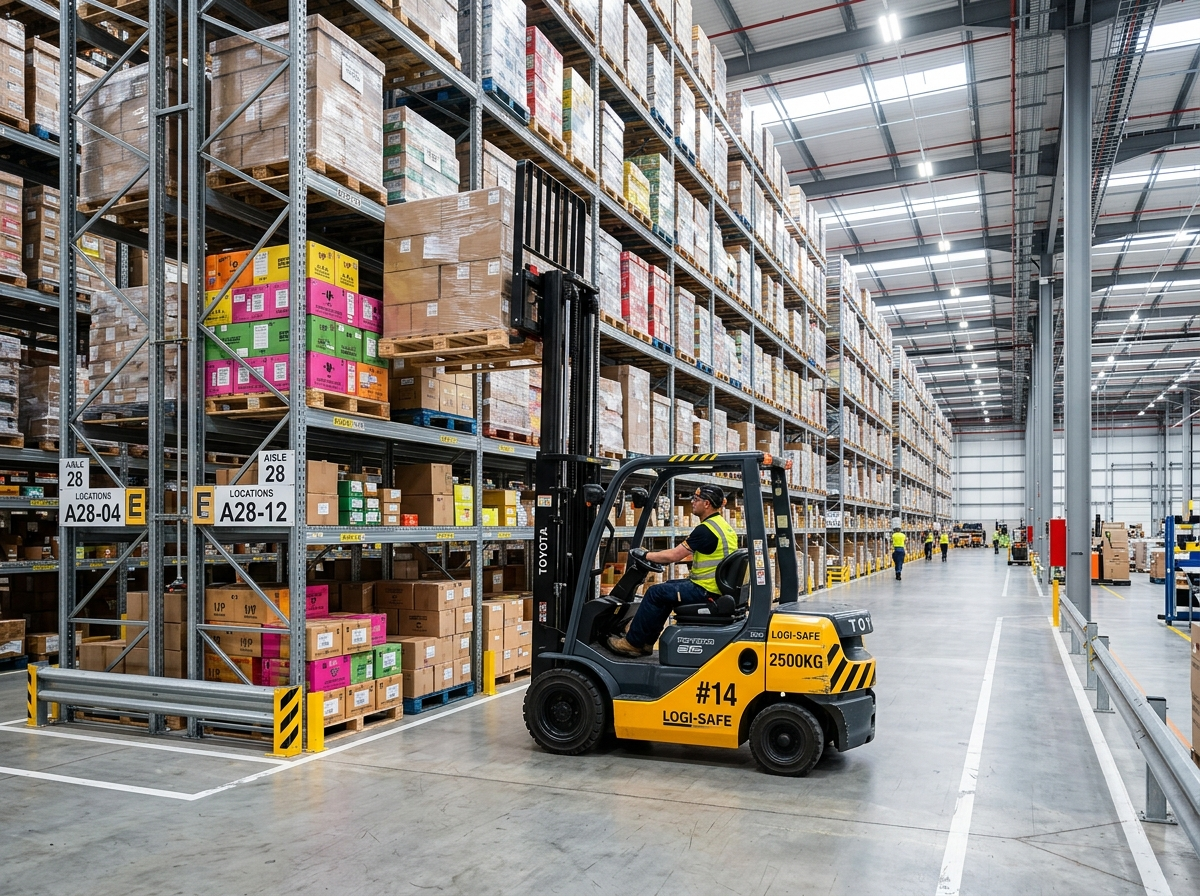
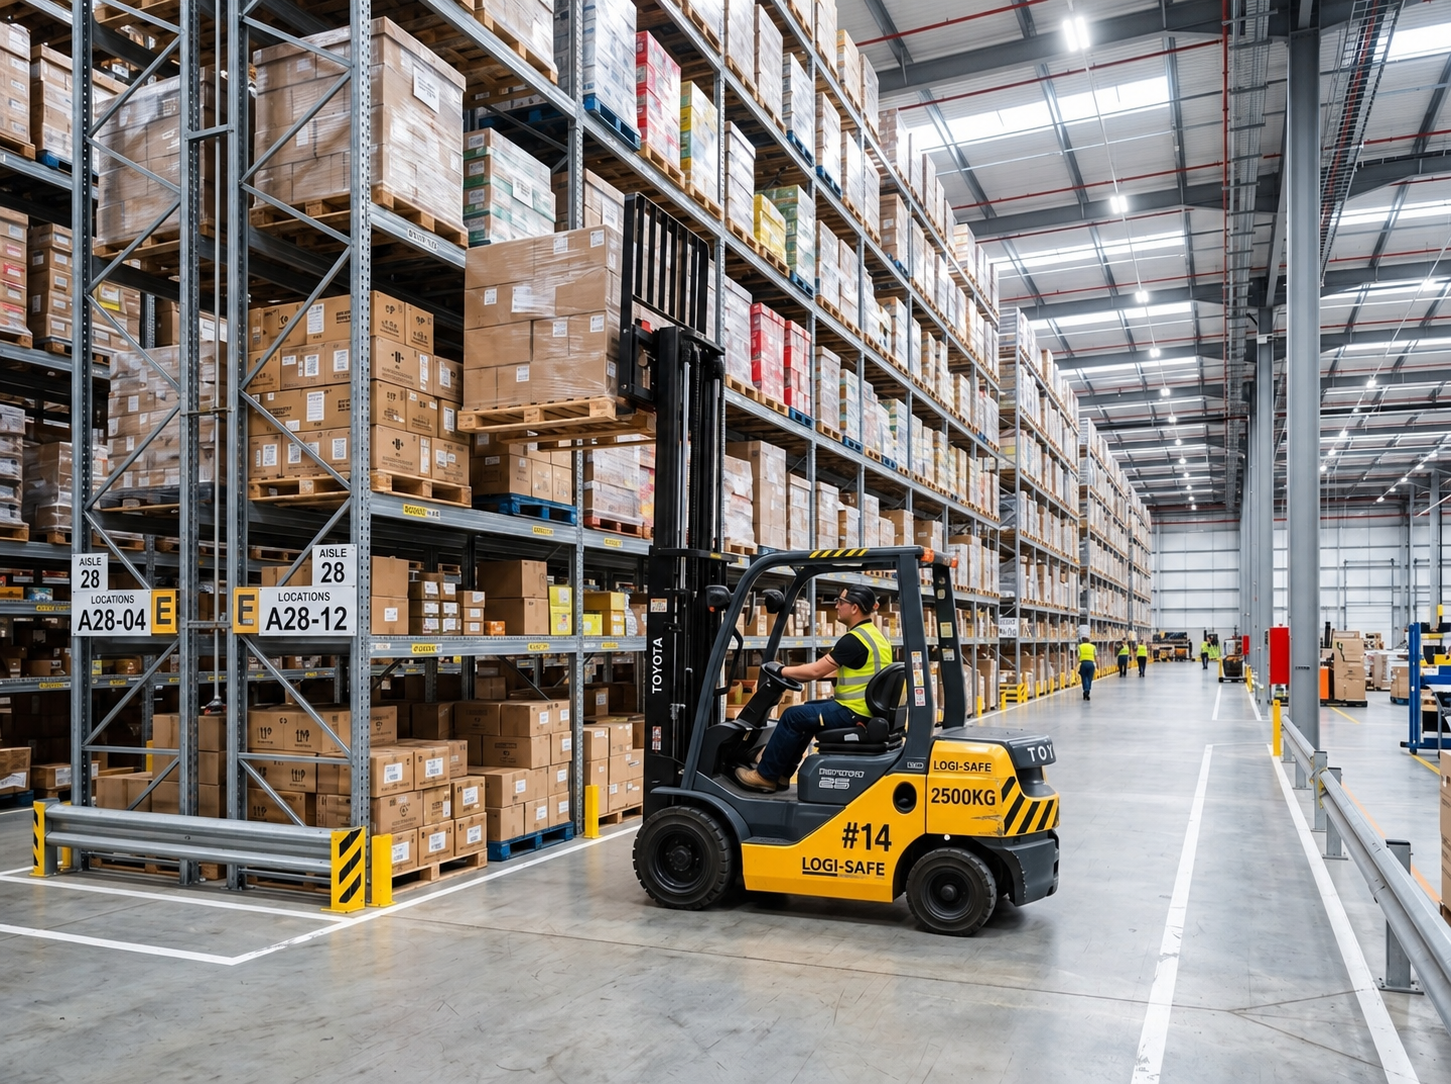
updated changes imgs

diff --git a/src/routes/e-kart.tsx b/src/routes/e-kart.tsx
@@ -537,12 +537,12 @@ function EKartPage() {
             </h2>
 
             <p className="mt-3.5 max-w-2xl mx-auto text-sm sm:text-base font-normal leading-relaxed text-slate-600">
-              Building new possibilities with technology and electronics to
+              Building new possibilities with technology and electric mobility to
               create a smarter, more connected future.
             </p>
           </div>
 
-          {/* Two Large Native React Cards: VEVRA Technologies & VEVRA Electronics */}
+          {/* Two Large Native React Cards: VEVRA Technologies & VEVRA Electric EV */}
           <div className="mt-12 sm:mt-14 grid gap-8 lg:grid-cols-2">
             {/* Card 1: VEVRA Technologies */}
             <div className="group relative overflow-hidden rounded-[28px] sm:rounded-[32px] border border-slate-200/90 bg-white shadow-xl transition-all duration-500 hover:-translate-y-1.5 hover:shadow-2xl hover:border-slate-300 flex flex-col justify-between min-h-[420px]">
@@ -600,13 +600,13 @@ function EKartPage() {
               </div>
             </div>
 
-            {/* Card 2: VEVRA Electronics */}
+            {/* Card 2: VEVRA Electric EV */}
             <div className="group relative overflow-hidden rounded-[28px] sm:rounded-[32px] border border-slate-200/90 bg-white shadow-xl transition-all duration-500 hover:-translate-y-1.5 hover:shadow-2xl hover:border-slate-300 flex flex-col justify-between min-h-[420px]">
               {/* Right Side Visual Image (Full Height & Flush to Right) */}
               <div className="pointer-events-none absolute inset-y-0 right-0 h-full w-full sm:w-[60%] md:w-[58%] lg:w-[56%] flex items-center justify-end overflow-hidden z-0">
                 <img
                   src={electronicsCardVisualImg}
-                  alt="VEVRA Electronics visual"
+                  alt="VEVRA Electric EV visual"
                   className="h-full w-auto max-w-none object-cover object-right transition-transform duration-700 ease-out group-hover:scale-105"
                 />
               </div>
@@ -622,21 +622,21 @@ function EKartPage() {
                       className="h-10 sm:h-11 w-auto object-contain select-none"
                     />
                     <span className="text-[10px] sm:text-[11px] font-black tracking-[0.32em] text-[#0B1930] uppercase mt-1 pl-0.5">
-                      ELECTRONICS
+                      ELECTRIC EV
                     </span>
                   </div>
 
                   {/* Heading */}
                   <h3 className="mt-5 text-2xl sm:text-[26px] font-black text-[#0B1930] leading-[1.18] tracking-tight">
-                    Innovative Electronics. <br />
+                    Innovative <br />
+                    Electric Mobility. <br />
                     For a <span className="text-[#D9232A]">Connected Future.</span>
                   </h3>
 
                   {/* Description */}
                   <p className="mt-3 text-xs sm:text-[13px] text-slate-600 font-normal leading-relaxed max-w-sm">
-                    VEVRA Electronics is our upcoming electronics division, bringing
-                    cutting-edge electronics, smart devices and innovative tech
-                    products — designed for a smarter, more connected world.
+                    VEVRA Electric EV brings smart, sustainable vehicles and innovative
+                    EV solutions for a cleaner, more connected world.
                   </p>
                 </div>
 
